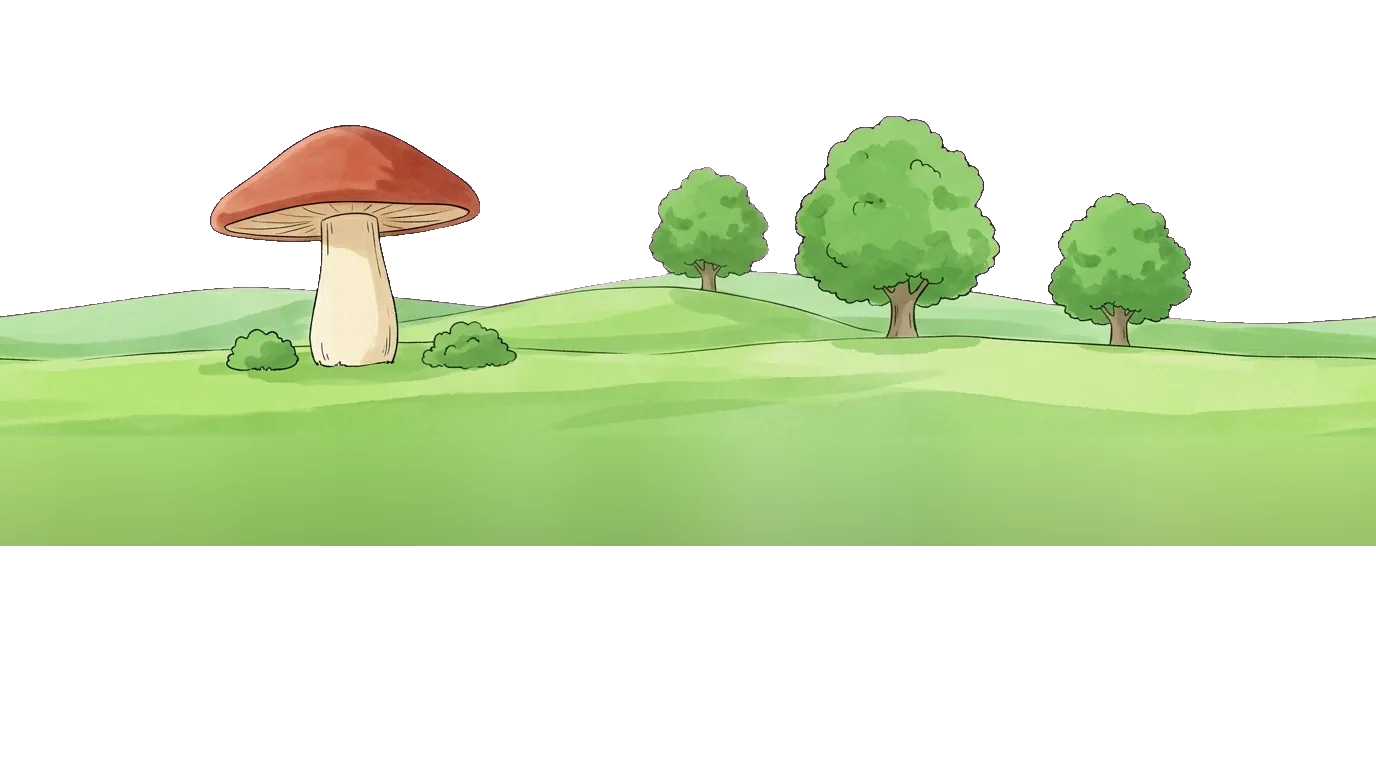
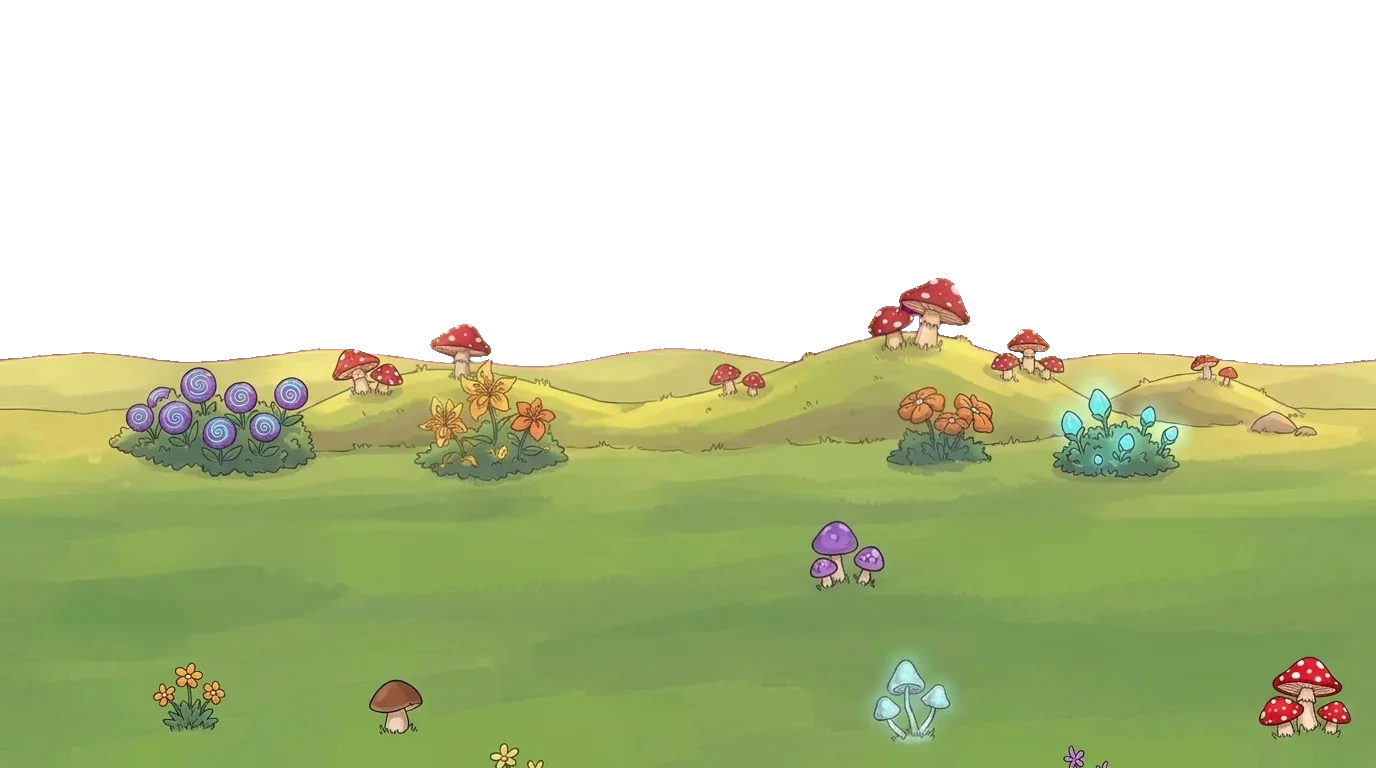
feat(planet): owner's meadow and path bands, Tapko on the path, molehills follow the stage width
Claude-Session: https://claude.ai/code/session_01MAZwqTN5mZ5mrQogx6Hvzv

diff --git a/src/game/modes/planet-crystals.ts b/src/game/modes/planet-crystals.ts
@@ -4,6 +4,7 @@ import { ease } from '../../engine/tween';
 import { drawSprite, fontFamily, type G, wordBox } from '../../gfx/draw';
 import { t } from '../../i18n/i18n';
 import { Mode, TAPKO_H, TAPKO_X } from '../mode';
+import { PATH_FEET } from './planet';
 import type { Target } from '../typing';
 
 /** The three kinds of crystal, each with its cracked picture, and their colors while the pictures are missing. */
@@ -13,6 +14,8 @@ const MOUNDS = ['obj-mound-1', 'obj-mound-2'];
 /** A big crystal shows about 30 % of Tapko's height above its mound; a mound's height. */
 const CRYSTAL_H = 114;
 const MOUND_H = 72;
+/** The molehills start this far from the stage's left edge, right of Tapko. */
+const MOUND_LEFT = TAPKO_X + 200;
 /** Seconds a crystal grows, flies into the pocket, lies cracked before it is gone, and a mound rests after. */
 const GROW = 2.6;
 const FLY = 0.7;
@@ -86,7 +89,10 @@ interface Crystal {
 }
 
 interface Mound {
+  /** Its place on the stage, from its share of the room right of Tapko (kept when the stage is resized) and a little jitter. */
   x: number;
+  share: number;
+  jitter: number;
   /** Its bottom. */
   y: number;
   pic: string;
@@ -103,6 +109,7 @@ interface Mound {
  * one grows there. Tapko wants as many as he can get: the end says how many he has.
  */
 export class CrystalsMode extends Mode {
+  readonly tapkoFeet = PATH_FEET;
   readonly pictures = [...CRYSTALS, ...CRYSTALS.map((c) => `${c}-cracked`), ...MOUNDS];
   readonly world = 'planet';
   private mounds: Mound[] = [];
@@ -116,12 +123,17 @@ export class CrystalsMode extends Mode {
 
   start(): void {
     const r = this.L.rng;
-    const left = TAPKO_X + 200, right = this.L.vw - 90;
-    const n = Math.max(3, Math.min(5, Math.floor((right - left) / 190) + 1));
+    const n = Math.max(3, Math.min(5, Math.floor((this.L.vw - 90 - MOUND_LEFT) / 190) + 1));
     for (let i = 0; i < n; i++) {
-      const x = left + ((right - left) * i) / (n - 1) + r.range(-18, 18);
-      this.mounds.push({ x, y: VH * r.range(0.9, 0.98), pic: r.pick(MOUNDS), flip: r.chance(0.5), crystal: null, rest: r.range(0, 1.5) });
+      this.mounds.push({ x: 0, share: i / (n - 1), jitter: r.range(-18, 18), y: PATH_FEET + r.range(4, 24), pic: r.pick(MOUNDS), flip: r.chance(0.5), crystal: null, rest: r.range(0, 1.5) });
     }
+    this.place();
+  }
+
+  /** The molehills spread over the room right of Tapko as the stage is now. */
+  private place(): void {
+    const right = this.L.vw - 90;
+    for (const m of this.mounds) m.x = MOUND_LEFT + (right - MOUND_LEFT) * m.share + m.jitter;
   }
 
   /** Where the crystal's foot is: in the molehill's hollow near its top, so the heap covers it. */
@@ -135,6 +147,7 @@ export class CrystalsMode extends Mode {
   }
 
   update(dt: number): void {
+    this.place();
     for (const m of this.mounds) {
       m.rest = Math.max(0, m.rest - dt);
       const c = m.crystal;
@@ -147,7 +160,7 @@ export class CrystalsMode extends Mode {
       } else if ((c.t += dt) >= (c.state === 'fly' ? FLY : CRACKED)) {
         m.crystal = null;
         m.rest = REST;
-        if (c.state === 'fly') this.L.particles.emit(TAPKO_X + 30, VH - TAPKO_H * 0.4, 8, 'sparkle', ['#fff6a8', CRYSTAL_COLOR[c.pic]], 90, 6);
+        if (c.state === 'fly') this.L.particles.emit(TAPKO_X + 30, this.tapkoFeet - TAPKO_H * 0.3, 8, 'sparkle', ['#fff6a8', CRYSTAL_COLOR[c.pic]], 90, 6);
       }
     }
     this.L.core.prune();
@@ -208,7 +221,7 @@ export class CrystalsMode extends Mode {
     if (c.state === 'fly') {
       // In an arc into Tapko's pocket, shrinking.
       const k = ease.inOutQuad(Math.min(1, c.t / FLY));
-      const tx = TAPKO_X + 30, ty = VH - TAPKO_H * 0.4;
+      const tx = TAPKO_X + 30, ty = this.tapkoFeet - TAPKO_H * 0.3;
       const x = c.from!.x + (tx - c.from!.x) * k, y = c.from!.y + (ty - c.from!.y) * k - Math.sin(k * Math.PI) * 140;
       return drawSprite(g, c.pic, x, y, CRYSTAL_H * (1 - 0.7 * k), { rot: c.rot + k * 3, flip: c.flip }, fall);
     }
@@ -360,6 +373,7 @@ const SHAKE_TIME = 0.4;
  * three glow, they fly to Tapko and the level ends.
  */
 export class SpellMode extends Mode {
+  readonly tapkoFeet = PATH_FEET;
   readonly pictures = [...CRYSTALS, 'obj-mound-2'];
   readonly world = 'planet';
   readonly phraseWords = 1;
@@ -479,7 +493,7 @@ export class SpellMode extends Mode {
 
   /** The molehill's foot on the right. */
   private crystal(): { x: number; y: number } {
-    return { x: this.L.vw - 150, y: VH * 0.95 };
+    return { x: this.L.vw - 150, y: PATH_FEET + 14 };
   }
 
   /** The spell panel between Tapko and the crystals. */
@@ -559,7 +573,7 @@ export class SpellMode extends Mode {
     // They rise out of the molehill and fly to Tapko, shrinking.
     const k = ease.inOutQuad(Math.min(1, this.take / TAKE));
     if (k < 1) {
-      const fx = c.x, fy = c.y - LIFE_MOUND_H * 0.55, tx = TAPKO_X + 30, ty = VH - TAPKO_H * 0.35;
+      const fx = c.x, fy = c.y - LIFE_MOUND_H * 0.55, tx = TAPKO_X + 30, ty = this.tapkoFeet - TAPKO_H * 0.25;
       drawLifeCrystals(g, fx + (tx - fx) * k, fy + (ty - fy) * k - Math.sin(k * Math.PI) * 120, LIFE_SIZE * (1 - 0.8 * k), lit);
     }
     drawSprite(g, 'obj-mound-2', c.x, c.y, LIFE_MOUND_H, { ay: 1 }, moundFallback);

diff --git a/src/game/modes/parrot.ts b/src/game/modes/parrot.ts
@@ -7,7 +7,8 @@ import type { Profile } from '../../storage/schema';
 import { WordSource } from '../../words/words';
 import { BEAT_S, FLAP } from '../../ui/parrot-visit';
 import { STORIES, WORLDS, parrotKeys, parrotSizeOf, storyOf } from '../levels';
-import { Mode, TAPKO_X } from '../mode';
+import { Mode, TAPKO_FEET, TAPKO_X } from '../mode';
+import { sideFeet } from './planet';
 import { ParrotRound, parrotPatience } from '../parrots';
 import type { LevelRuntime } from '../runtime';
 import type { Target } from '../typing';
@@ -77,6 +78,7 @@ interface Flight {
 export class ParrotMode extends Mode {
   readonly pictures = ['ui-act-parrot', 'obj-parrot-perch', ...new Set(FLAP)];
   readonly world: string;
+  readonly tapkoFeet: number;
   readonly phraseWords = 1;
   readonly midOnly = true;
   readonly round: ParrotRound;
@@ -97,6 +99,7 @@ export class ParrotMode extends Mode {
   constructor(L: LevelRuntime) {
     super(L);
     this.world = WORLDS[L.def.world];
+    this.tapkoFeet = sideFeet(this.world, TAPKO_FEET);
     this.round = new ParrotRound(parrotWords(app.profile!, L.def.world), parrotSizeOf(L.def.world).repeats);
     this.patience = parrotPatience(STORIES.indexOf(storyOf(L.def.world)));
   }
@@ -113,9 +116,14 @@ export class ParrotMode extends Mode {
     return this.L.vw - Math.max(130, this.L.vw * 0.14);
   }
 
+  /** The perch's foot: on the ground beside Tapko, as high as his feet. */
+  private get perchFoot(): number {
+    return GROUND_Y + this.tapkoFeet - TAPKO_FEET;
+  }
+
   /** Where the parrot's claws hold the perch's bar. */
   private get clawY(): number {
-    return GROUND_Y - PERCH_H * (1 - BAR_Y);
+    return this.perchFoot - PERCH_H * (1 - BAR_Y);
   }
 
   private next(): void {
@@ -204,7 +212,7 @@ export class ParrotMode extends Mode {
     const size = Math.max(WORD_SIZE, 44 / this.L.stage.scale);
     const x = (TAPKO_X + this.parrotX) / 2, y = VH * 0.36;
     if (this.current) this.L.label(g, this.current, x, y + (1 - this.pop) * 12, size);
-    drawSprite(g, 'obj-parrot-perch', this.parrotX, GROUND_Y, PERCH_H, { ax: 0.5, ay: 1 });
+    drawSprite(g, 'obj-parrot-perch', this.parrotX, this.perchFoot, PERCH_H, { ax: 0.5, ay: 1 });
     this.drawParrot(g);
   }
 

diff --git a/src/game/modes/freetype.ts b/src/game/modes/freetype.ts
@@ -6,7 +6,7 @@ import { t } from '../../i18n/i18n';
 import { WORLDS } from '../levels';
 import type { LevelRuntime } from '../runtime';
 import { TypedLine } from '../typed-line';
-import { HeroMode } from './planet';
+import { HeroMode, sideFeet } from './planet';
 
 /** Tapko's walking speed (background units per second) and the seconds of his hop at a key. */
 const WALK = 28;
@@ -34,6 +34,8 @@ const GROUND = VH * 0.97;
  */
 export class FreeTypeMode extends HeroMode {
   readonly world: string;
+  /** Where he stands in this world. */
+  private readonly ground0: number;
   private line = new TypedLine();
   private shown: { text: string; age: number } | null = null;
   /** Seconds since the hop or trick began. */
@@ -44,11 +46,12 @@ export class FreeTypeMode extends HeroMode {
   constructor(L: LevelRuntime) {
     super(L);
     this.world = WORLDS[L.def.world];
+    this.ground0 = sideFeet(this.world, GROUND);
   }
 
   start(): void {
     this.heroX = HOME_X;
-    this.heroY = GROUND;
+    this.heroY = this.ground0;
     this.keysToTrick = this.nextTrickIn();
   }
 
@@ -104,7 +107,7 @@ export class FreeTypeMode extends HeroMode {
     // He starts where Tapko stands in other levels, under the bubble, and strolls from there into the left
     // part of the stage and back, on the ground and only a little farther away.
     this.heroX = HOME_X + (this.L.vw * 0.38 - HOME_X) * (1 - Math.cos(this.t * 0.25)) / 2;
-    this.heroY = GROUND - VH * 0.02 * (1 - Math.cos(this.t * 0.17)) / 2;
+    this.heroY = this.ground0 - VH * 0.02 * (1 - Math.cos(this.t * 0.17)) / 2;
     this.hopT += dt;
     const len = this.length();
     this.jump = this.hopT < len ? this.hopT / len : 0;

diff --git a/src/game/mode.ts b/src/game/mode.ts
@@ -10,6 +10,8 @@ import type { LevelRuntime } from './runtime';
  */
 export const TAPKO_X = 150;
 export const TAPKO_H = 265;
+/** Where the DOM Tapko's feet are when he stands on the stage's bottom edge (the template's feet are at 90 % of its height). */
+export const TAPKO_FEET = VH - TAPKO_H * 0.1;
 
 /** A background band that moves slowly on its own, so a scene that stands still feels alive. */
 export interface Drift {
@@ -27,6 +29,8 @@ export function driftOffset(drift: Drift | null, elapsed: number, motion: boolea
 export abstract class Mode {
   /** World background name. */
   abstract readonly world: string;
+  /** Where the DOM Tapko's feet are: on a path drawn higher than the bottom edge he stands on it. */
+  readonly tapkoFeet: number = TAPKO_FEET;
   /** Another set of the world's middle and near bands (`bg-<world><ground>-mid`), '' for the usual one. */
   readonly ground: string = '';
   /** The near layer's x where its band ends in the end piece (`bg-<world><ground>-near-end`), null where it goes on. */
@@ -88,7 +92,7 @@ export abstract class Mode {
   }
   /** Just above Tapko's head, where his shouts pop up: above the DOM Tapko unless the mode draws him. */
   heroSpot(): { x: number; y: number } {
-    return { x: TAPKO_X, y: VH - TAPKO_H - 40 };
+    return { x: TAPKO_X, y: this.tapkoFeet - TAPKO_H * 0.9 - 40 };
   }
   /** Where the tail of Tapko's bubble points, or null for the bubble's corner above the DOM Tapko. */
   bubbleSpot(): { x: number; y: number } | null {

diff --git a/src/game/modes/planet-roads.ts b/src/game/modes/planet-roads.ts
@@ -1,11 +1,10 @@
 import { pickLine } from '../../app/app';
-import { VH } from '../../engine/loop';
 import { ease } from '../../engine/tween';
 import { sprite } from '../../gfx/assets';
 import { drawSprite, fontFamily, type G } from '../../gfx/draw';
 import { t, tList } from '../../i18n/i18n';
 import type { Target } from '../typing';
-import { HeroMode, wordAbove } from './planet';
+import { HeroMode, PATH_FEET, wordAbove } from './planet';
 import { TAPKO_H } from '../mode';
 
 /**
@@ -113,8 +112,8 @@ const END_TIME = 1.8;
 const NAME_SIZE = 22;
 /** On a road his word floats well above his head, clear of the signposts' arrows. */
 const ROAD_WORD_UP = 30;
-/** He and the posts stand in the middle of the path, not at its lower edge. */
-const FEET = VH * 0.8;
+/** He and the posts stand in the middle of the path. */
+const FEET = PATH_FEET;
 const NAME_INK = '#3a2614';
 /** Most signs at once (five places, one is his); the first crossroads has three. */
 const SIGNS_MAX = 4;

diff --git a/src/game/runtime.ts b/src/game/runtime.ts
@@ -28,7 +28,7 @@ import { OWN_SHARE, WordSource, type WordSourceOwn } from '../words/words';
 import { type LangRef, type Profile, SUPER_ID, type Surprise } from '../storage/schema';
 import type { LevelDef } from './levels';
 import { WORLDS, grownCount, hasMinLength, levelOver, minActiveS, shownProgress, storyOf } from './levels';
-import { type Mode, TAPKO_H, TAPKO_X, driftOffset } from './mode';
+import { type Mode, TAPKO_FEET, TAPKO_H, TAPKO_X, driftOffset } from './mode';
 import { PAW_MAX, PAW_STREAK, PAW_WORDS } from './paw';
 import { ENTER_MAX, EnterMarks } from './enter';
 import { createMode } from './modes';
@@ -1351,6 +1351,7 @@ export class LevelRuntime {
     this.tapkoPx = px;
     this.tapko.style.setProperty('--size', `${px}px`);
     this.tapko.style.left = `${Math.round((TAPKO_X - TAPKO_H / 2) * k)}px`;
+    this.tapko.style.bottom = `${Math.round((TAPKO_FEET - this.mode.tapkoFeet) * k)}px`;
   }
 
   private tapkoPx = 0;

diff --git a/src/game/modes/planet.ts b/src/game/modes/planet.ts
@@ -76,8 +76,12 @@ export abstract class HeroMode extends Mode {
   }
 }
 
-/** Where the meadow's DOM Tapko has his feet; the planet's Tapko on the canvas stands there too. */
+/** Where the meadow's DOM Tapko has his feet. */
 export const FEET = VH - TAPKO_H * 0.1;
+/** On the planet's meadow he walks in the middle of the path, which the near band draws at this height. */
+export const PATH_FEET = VH * 0.89;
+/** Where Tapko stands in a world's side activity (the target range, the parrot, free typing): on the planet's path, else at `ground`. */
+export const sideFeet = (world: string, ground: number): number => (world === 'planet' ? PATH_FEET : ground);
 /** His feet on a stepping stone in the swamp, a bit higher, so the stone fits under them. */
 const SWAMP_FEET = VH * 0.85;
 /** The word to type is above his head. */

diff --git a/src/game/modes/aim.ts b/src/game/modes/aim.ts
@@ -12,7 +12,7 @@ import { WORLDS } from '../levels';
 import type { LevelRuntime } from '../runtime';
 import type { Target } from '../typing';
 import { BURST_COLORS, Bags, type Burst, type Effect, type Eyes, STAY_WORLD_EVERY, THINGS, type Thing, type Tier, WORLD_THINGS, storyPool, tierOf, tierPoints, worldDue, worldThing } from './aim-things';
-import { HeroMode } from './planet';
+import { HeroMode, sideFeet } from './planet';
 
 /** Seconds of play before the run ends with the throw in the air (staying a while has no end). */
 export const AIM_SECONDS = 120;
@@ -316,7 +316,7 @@ export class AimMode extends HeroMode {
 
   start(): void {
     this.heroX = Math.max(80, this.L.vw * 0.08);
-    this.heroY = VH * 0.92;
+    this.heroY = sideFeet(this.world, VH * 0.92);
     this.throw();
   }
 

diff --git a/assets-src/PROMPTS.md b/assets-src/PROMPTS.md
@@ -446,8 +446,8 @@ flat storybook style and no longer apply.
 | `bg-planet-swamp-mid.jpg` | (the owner's picture, 2026-10-28) calm blue-green swamp water with low mossy islands, a willow, a few small trees, crystals and a mushroom | 66 % | done 2026-10-28 (seam by Gemini, tint cleaned to magenta, moved down 150 px) |
 | `bg-planet-swamp-near.jpg` | (the owner's picture, 2026-10-28) calm blue-green water in front, a low mossy shore with reeds, a few mushrooms, a glowing mushroom and a crystal | 66 % | done 2026-10-28 (seam by Gemini, tint cleaned, moved down 236 px so the water starts at 70 %) |
 | `bg-planet-swamp-near-end.png` | (the owner's picture, 2026-10-28: the near band with a grassy meadow shore coming in on the right) one and a half tiles: the band's tile up to a hard cut along the cheapest column path in the first third of the owner's picture, then the picture on; moved down like the band. The game draws it where the swamp ends and repeats its flat green part, every other copy mirrored | 1.5 tiles | done 2026-10-28 |
-| `bg-planet-mid.jpg` | (levels 2-4 and the side activities) wide soft rolling grassy humps in light green (#9CCF7A, #86BF66) with only a few things far apart: two or three round trees, one or two giant mushroom trees with a red-brown cap, a low bush; LOW detail, no crystals, no flowers | 40 % | done 2026-10-28 (sheet of two, quilted, lifted 72 px; the first, detailed version swallowed the game's crystals and signs) |
-| `bg-planet-near.jpg` | a sandy path (#C9A877) with a thin band of grass above and below and about five small crystal clusters and mushrooms along its upper edge | 25 % + 90 px | done 2026-10-28 (sheet of three, quilted with the same strip as donor, moved up 90 px with plain ground filled under it) |
+| `bg-planet-mid.jpg` | (the owner's picture, 2026-10-28) soft yellow-green hills with small mushrooms and flower bushes, then a wide calm grass field | full | done 2026-10-28 (seam by Gemini, tint cleaned, moved down 150 px) |
+| `bg-planet-near.jpg` | (the owner's picture, 2026-10-28) a sandy path with pebbles, small crystals and mushrooms along its upper edge, calm grass below | full | done 2026-10-28 (seam by Gemini, tint cleaned, moved down 240 px: the path's middle at 89 % of the stage, where Tapko walks) |
 | `bg-dragons-far.jpg` | a peaceful dragon valley at sunset, warm orange and pink colours in the sky, the sun hidden behind the mountains, soft rounded mountains and a waterfall | full | done 2026-10-23 |
 | `bg-dragons-mid.jpg` | rounded rocky hills with cozy cave entrances and soft moss | 45 % | |
 | `bg-dragons-near.jpg` | grass with orange tips, round pebbles, a big fern, a broken eggshell with orange spots, a mossy log, a small glowing crystal, a dry reed and a curled leaf plant | 25 % | done 2026-10-23 |

diff --git a/.specify/game/story.md b/.specify/game/story.md
@@ -102,8 +102,8 @@ gives you a wreath"), never about the character as someone else.
    calm blue-green water with mossy islands, reeds and a willow (levels 1 and 5), and a meadow of
    open grass with a few trees and mushroom trees and a sandy path in front with about five small
    crystals and mushrooms along its upper edge per screen (levels 2 to 4 and the side
-   activities). The closer bands sit high enough that much of them shows, with plain ground under
-   the path. Tapko is as big as on the meadow; the word he types is well above his head, never
+   activities). On the meadow Tapko stands in the middle of the path in every level and side
+   activity; the molehills stand on the path too. Tapko is as big as on the meadow; the word he types is well above his head, never
    over him or touching it.
    1 the swamp after the landing (waiting words, a calm minute): one word at a time above him,
    a ring on the water where the next stone comes; typed, the stone is there and he jumps onto
